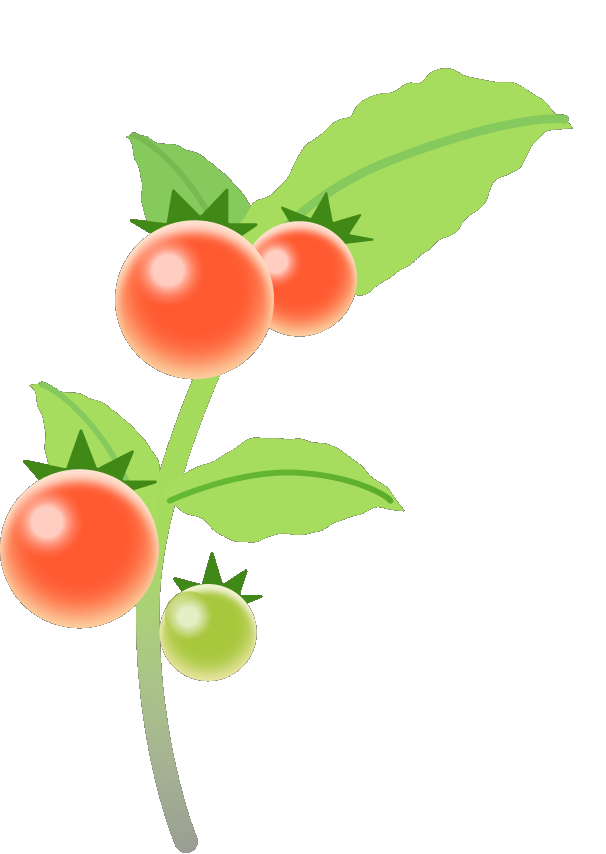
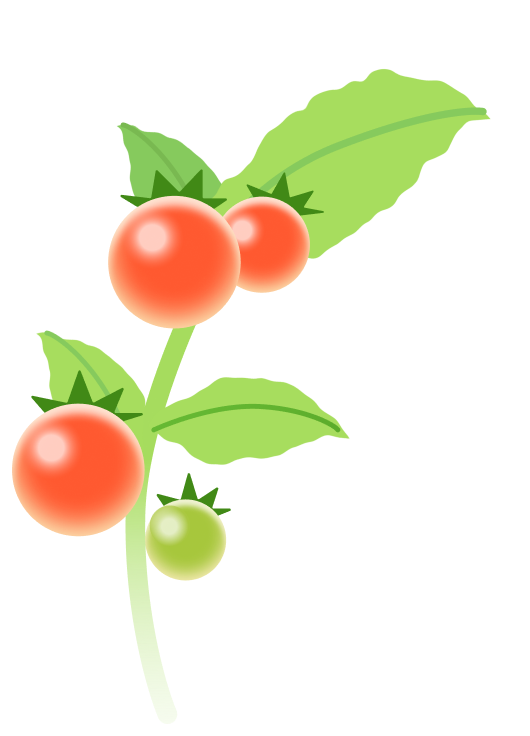
feat(frontend): 헤어 9종을 시안 그림으로 교체한다
- 식물머리 컴포넌트(5035:5886) 9종을 4배 해상도·투명 배경으로 추출해
  hair_*.png를 교체한다. 기존 그림은 시안과 달랐다(산세베리아 잎 4장,
  선인장이 둥근 꽃선인장)
- 헤어 표의 PNG 크기와 레이어 영역을 새 애셋 값으로 바꿔, 시안 크기
  예시(5028:4737)의 크기·위치를 그대로 재현한다
- 헤어 PNG의 투명 여백(사방 3 unit)을 빼고 헤어가 태그를 덮는지 재도록
  성격 화면 레이아웃 테스트를 고친다

Claude-Session: https://claude.ai/code/session_016cEZaxycdvPC2U1fgjug9F

diff --git a/frontend/lib/widgets/plant_character_art.dart b/frontend/lib/widgets/plant_character_art.dart
@@ -174,14 +174,13 @@ const Map<PlantBody, _BodyGeometry> _kBodyGeometry = {
 
 /// 헤어별 크기·위치(unit, 몸통 bbox 기준). 헤어 크기는 바디와 무관한 절대
 /// 크기다.
-/// - [width]/[height]: 시안 헤어 bbox. 헤어 그림(불투명 영역)을 이 상자 안에
-///   비율을 지켜 최대로 맞춘다(contain). 저장소 헤어 PNG 일부는 시안 헤어와
-///   종횡비가 달라(산세베리아·몬스테라는 더 길쭉) 폭만 맞추면 시안보다
-///   훨씬 높이 솟으므로, 시안 bbox를 넘지 않게 한다.
+/// - [width]/[height]: 시안 헤어 레이어 bbox. 헤어 PNG는 같은 컴포넌트
+///   (식물머리 5035:5886)에서 4배로 뽑아 [ink]가 곧 이 레이어 영역이므로
+///   비율이 정확히 맞는다(contain 계산은 안전장치로 남긴다).
 /// - [overlap]: 헤어 그림 바닥이 몸통 bbox 위쪽보다 아래로 내려온 깊이.
 /// - [dx]: 헤어 그림 중심 − 몸통 중심(+면 오른쪽). [dxByBody]가 있으면 우선.
-/// - [png]/[ink]: 헤어 PNG 캔버스 크기와 그 안의 불투명 bbox(px, PIL 실측).
-///   PNG 둘레 투명 여백을 빼고 그림 자체로 위 값을 맞춘다.
+/// - [png]/[ink]: 헤어 PNG 캔버스 크기와 그 안의 시안 레이어 영역(px).
+///   PNG는 레이어 렌더 영역을 사방 3 unit 넓혀 뽑았다.
 ///
 /// 근거: 시안 "홈에서 뜨는 캐릭터/식물 크기 예시"(5028:4737) 실측.
 /// flower_cactus만 시안 캐릭터가 없어 헤어 심볼(5035:5886) 크기에
@@ -230,32 +229,32 @@ const Map<String, _HairSpec> _kHairSpecs = {
     109.75,
     18.75,
     -0.95,
-    png: Size(908, 538),
-    ink: Rect.fromLTRB(4, 8, 902, 524),
+    png: Size(765, 463),
+    ink: Rect.fromLTRB(16, 12, 749.2, 451),
   ),
   'hair_cherry_tomato': _HairSpec(
     120.81,
     177.99,
     23.99,
     20.79,
-    png: Size(606, 854),
-    ink: Rect.fromLTRB(0, 68, 573, 853),
+    png: Size(530, 736),
+    ink: Rect.fromLTRB(12, 12, 495.3, 724),
   ),
   'hair_sunflower': _HairSpec(
     95.00,
     152.00,
     25.00,
     -4.12,
-    png: Size(369, 540),
-    ink: Rect.fromLTRB(0, 0, 369, 530),
+    png: Size(404, 632),
+    ink: Rect.fromLTRB(12, 12, 392, 620),
   ),
   'hair_hydrangea': _HairSpec(
     120.00,
     169.96,
     25.96,
     -4.62,
-    png: Size(567, 803),
-    ink: Rect.fromLTRB(0, 0, 538, 786),
+    png: Size(506, 705),
+    ink: Rect.fromLTRB(13, 13, 493, 692.8),
     dxByBody: {PlantBody.thumb: -4.01},
   ),
   // 산세베리아(시안은 square 바디).
@@ -264,16 +263,16 @@ const Map<String, _HairSpec> _kHairSpecs = {
     181.91,
     17.91,
     4.50,
-    png: Size(522, 667),
-    ink: Rect.fromLTRB(35, 13, 446, 644),
+    png: Size(605, 766),
+    ink: Rect.fromLTRB(12, 26, 592, 753.7),
   ),
   'hair_daisy': _HairSpec(
     116.00,
     165.00,
     18.00,
     -9.62,
-    png: Size(473, 672),
-    ink: Rect.fromLTRB(37, 37, 443, 661),
+    png: Size(488, 685),
+    ink: Rect.fromLTRB(12, 12, 476, 672),
   ),
   // 에케베리아.
   'hair_rosette_succulent': _HairSpec(
@@ -281,16 +280,16 @@ const Map<String, _HairSpec> _kHairSpecs = {
     83.48,
     24.48,
     -0.62,
-    png: Size(770, 460),
-    ink: Rect.fromLTRB(38, 0, 731, 447),
+    png: Size(584, 358),
+    ink: Rect.fromLTRB(12, 12, 572, 345.9),
   ),
   'hair_monstera': _HairSpec(
     160.00,
     169.25,
     25.25,
     -21.62,
-    png: Size(630, 667),
-    ink: Rect.fromLTRB(148, 60, 581, 652),
+    png: Size(664, 701),
+    ink: Rect.fromLTRB(12, 12, 652, 689),
   ),
   // 선인장: 시안 캐릭터 없음(5035:5886 심볼 폭, overlap·dx 추정).
   'hair_flower_cactus': _HairSpec(
@@ -298,7 +297,7 @@ const Map<String, _HairSpec> _kHairSpecs = {
     138.02,
     22,
     0,
-    png: Size(709, 708),
-    ink: Rect.fromLTRB(19, 18, 690, 689),
+    png: Size(282, 577),
+    ink: Rect.fromLTRB(12, 12, 269.5, 564.1),
   ),
 };

diff --git a/frontend/test/character_screens_layout_test.dart b/frontend/test/character_screens_layout_test.dart
@@ -48,7 +48,11 @@ void main() {
     expect(_bodyBottom(art), _near(488.85));
     final hair = tester.getRect(find.bySemanticsLabel('식물 머리').first);
     final tags = tester.getRect(find.text('#긍정적'));
-    expect(hair.top, greaterThan(tags.bottom));
+    // 헤어 PNG는 레이어 렌더 영역을 사방 3 unit 넓혀 뽑아 위쪽이 투명하다.
+    // 보이는 그림의 꼭대기는 이미지 사각형보다 3 unit(= 3 × width×0.897/155.23)
+    // 아래다.
+    final unit = art.width * 0.897 / 155.23;
+    expect(hair.top + 3 * unit, greaterThan(tags.bottom));
   });
 
   testWidgets('외형: 가운데 정렬, 몸통 바닥 489, 인디케이터 y=558', (tester) async {
